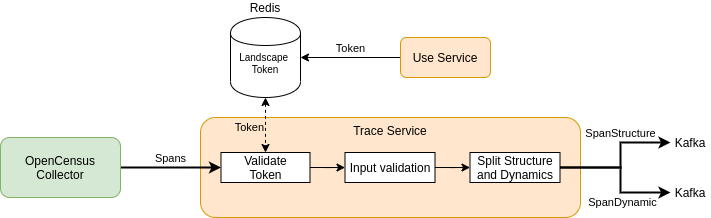
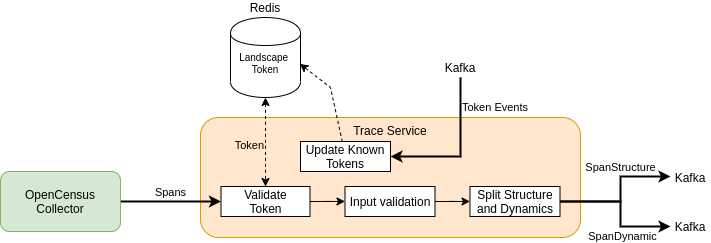
Fix token validation description

diff --git a/README.md b/README.md
@@ -18,8 +18,10 @@ In essence, the Adapter-Service performs three steps on each span.
 1. **Token validation**: 
    Prior to monitoring any application, the client has to request a unique identifier for the landscape, the so-called *landscape token*, at the User-Service.
    All spans of a landscape have to contain the landscape token given to the user for that particular landscape.
-   To this end, the user needs to specify the token within the instrumentation configuration of the applications.
-   The User-Service keeps track of all existing tokens in a Redis database, which the Adapter-Service can access to check a token's integrity.
+   To this end, the user needs to specify the token within the instrumentation configuration of the applications. 
+   
+   Whenever a landscape token is createn/deleted/update, the event gets broadcasted via Kafka.
+   The Adapter-Service uses these events to keep track of all existing tokens in a Redis database. 
    If a span's token is missing, unknown, or invalid, the span gets discarded.
 2. **Input Validation**: 
    If the token is valid, all other attributes of the span get validated, too. 
